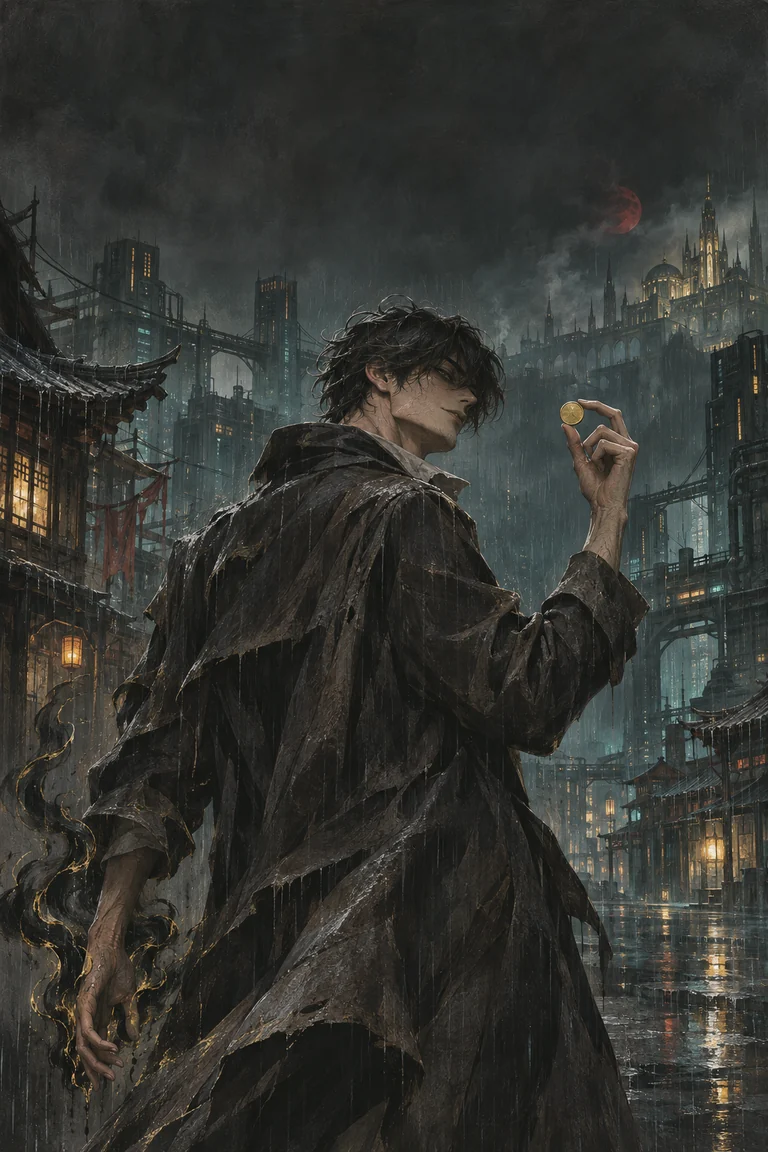
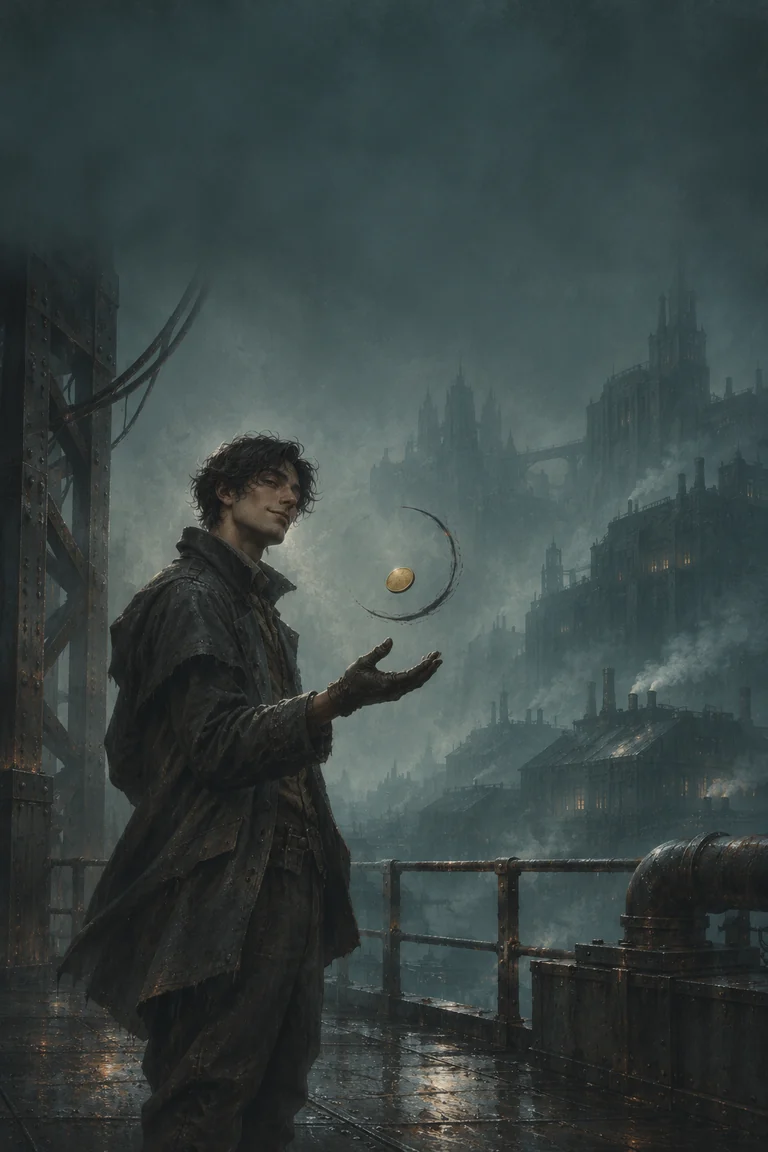
Replace both MoonRead covers with reviewed series artwork
Agent: OpenCode

diff --git a/00_Assets/cover_art/20261125/README.md b/00_Assets/cover_art/20261125/README.md
@@ -1,0 +1,14 @@
+# MoonRead two-book replacement cover art
+
+Owner authorized selecting and publishing after independent visual review, without a separate preview round.
+
+The `novel-cover-art` skill guided composition and review; prior MoonRead covers were used as style references only. The built-in provider had zero available free quota. Original PNGs were produced through the existing codex-lb OpenAI SDK Responses image-generation tool, requesting `gpt-image-2`; the exact concept prompts are included. No type, title, author, or marks are baked into the plates.
+
+Inspector reviewed full-size and 120 × 180 thumbnails together with established MoonRead covers.
+
+- **a-gacha-addicts-fusionpunk-life**: The gambler, single coin and ink arc read as a single narrative hook at 120 × 180. The industrial skyline falls away into restrained petrol tones, with a quietly separated title area and no visible anatomical distraction or typography.
[1 lines of base64/hex data omitted]
+- **investing-in-my-crippled-wife**: The woman and wheelchair hold the foreground, both partners face the same threshold, and frost signals fantasy without a contrived romance pose. The defined rear wheel, face, directional light and slate palette remain legible at 120 × 180.
[1 lines of base64/hex data omitted]
+
+WebP derivatives are 768 × 1152, quality 86, method 6, full 2:3 composition without crop. Reader URLs and text remain unchanged. Retain v1 assets and handoff for rollback; place title lettering separately.
